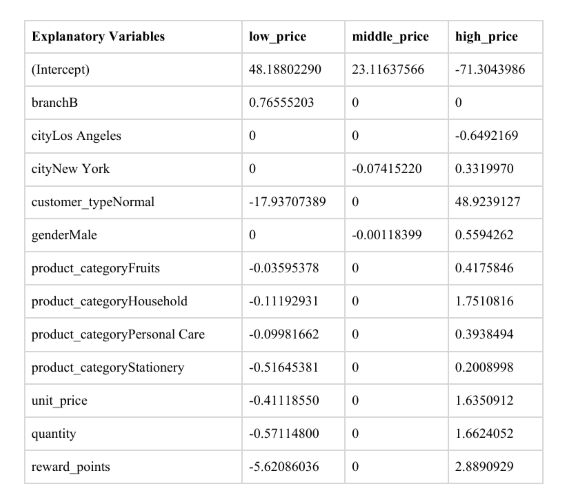
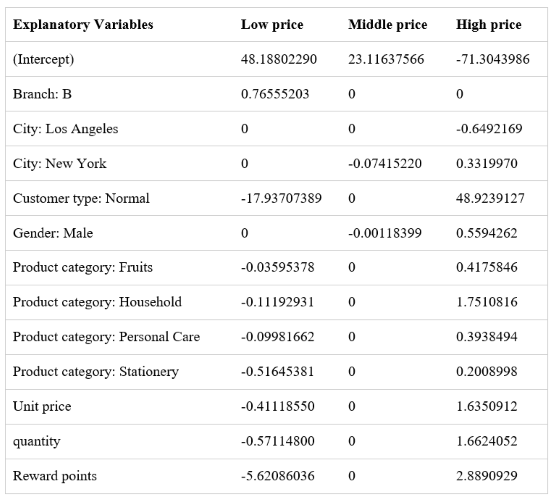
words

diff --git a/index.html b/index.html
@@ -1496,21 +1496,30 @@ updatePipelineProgress();
               </div>
 
               <div class="text-left text-[var(--color-bg-dark)] text-[clamp(0.5rem,2vw,1.0rem)] font-medium mb-6 tracking-wide" >
-                     <p>This study aim to find out if the membership status is correlated with higher single transaction sales value based on a real-world Supermarket 
-                        Sales Dataset from Kaggle, the supermarket located in 3 regions: Chicago, Los Angeles and New York. Each supermarket has 2 branches: Branch A, Branch B.<br>
+                        <p>This study aims to investigate if the membership status is correlated with higher single transaction sales value, 
+                            utilizing transactional records from a multi-regional supermarket enterprise sourced via Kaggle. 
+                            The retail network spans three metropolitan markets: Chicago, Los Angeles and New York. Each supermarket comprises 2 branches: Branch A, Branch B.<br>
+
                         <br>
-                        This dataset has 1000 observations and 12 variables, they are: sale_id, branch, city, customer_type, gender, product_name, 
-                        product_category, unit_price, quantity, tax, total_price and reward_points.<br>
+                        This dataset has 1000 observations and 12 variables, capturing transaction identifiers, store attributes, customer profiles, 
+                        product specifications, unit pricing, order quantities, tax liabilities, and cumulative monetary values.<br>
                         <br>
-                        R studio is used to visualise and analysis the data, to categorize the spending level, total spending was divided into three 
-                        levels : low price: 1.21 ~ 38.38;  middle price: 38.38 ~ 176.07; high price:176.07 ~ 433.99(unit: dollar). Tableau is used to
-                        creat the dashboard.<br>
+                        Analytical Framework, Data wrangling, Statistical computing and Econometric modeling were executed in R, supplemented by Tableau for exploratory data visualization. 
+                        To categorize the spending level, total spending was divided into three levels : low price: 1.21 ~ 38.38;  middle price: 38.38 ~ 176.07; high price:176.07 ~ 433.99(unit: dollar).
+                        Quantile-based discretization was adopted.
+                        Each segment accounts for 25%, 50%, and 25% respectively. In this dataset, the mean (Mean: 118.58) is significantly higher than the median (Median: 89.70), 
+                        with a maximum value reaching 433.99. This indicates that this dataset is a Right-Skewed dataset, and a few extremely high-value purchases skew the mean upward. 
+                        Under this distribution, quantiles are adpopted to enhance estimation robustness. (e.g., 0-100, 100-200, 200-300).<br>
                         <br>
-                        Logit regression and lasso regression are used to explore the correlation between the membership status and high single 
+
+                        <div class="text-left text-[var(--color-bg-dark)] text-[clamp(1.0rem,2vw,2.0rem)] font-medium mb-6 tracking-wide" ><p>Methodology and Key Findings</p></div><br>
+                        Ordinal Logistic Regression and Lasso Regression were adopted to assess the correlation between the membership status and high single 
                         transaction sales value.<br>
                         <br>
-                        The result shows that membership status is not significantly correlated with single transaction value, however, on low price 
-                        band, membership customer tends to spend more money;on high price band, non membership customer tends to spend more money. <br>  
+
+                        The parametric estimates reveal no statistically significant association between membership status and transaction price bands (p > 0.05). However, 
+                        in the lower price band, members tend to exhibit higher spending, whereas in the higher price band, non-members are more likely to spend greater amounts. 
+                        Despite apparent minor differences in the descriptive statistics, the regression model confirms that this difference is not statistically significant. <br>  
                         </p>
               </div> 
           </div>
@@ -1538,6 +1547,11 @@ updatePipelineProgress();
               <img src="./imgs/Rplot.png" class="w-full w-[500px] h-auto mx-auto ">
               <img src="./imgs/lasso.png" class="w-full w-[574px] h-auto mx-auto">
          </div>
+               
+              <div class="ml-4 text-left text-[var(--color-bg-dark)] text-[clamp(1.2rem,2vw,4rem)] font-medium mb-2 tracking-wide" ><p>Discribtive Ordinal Logistic Regression Models</p></div>
+              <img src="./imgs/Re2.png" class="w-[500px] h-auto p-2 mx-auto mb-6">
+              
+
           </div>
           <div class="flex flex-col p-4 ">
               <div class="text-left text-[var(--color-bg-dark)] text-[clamp(1.2rem,2vw,4rem)] tracking-wide mb-6" >
@@ -1547,19 +1561,19 @@ updatePipelineProgress();
           <div class="text-left text-[var(--color-accent)] text-[clamp(0.5rem,2vw,1.0rem)] font-medium mb-6 tracking-wide ">
               <div class="text-left text-[var(--color-bg-dark)] text-[clamp(0.7rem,2vw,1.2rem)] font-medium tracking-wide "><p>●Demographic:<br></div>
                 
-                 In this dataset,52.8% customers are male,&nbsp;47.2% customers are female;&nbsp;51.6% customers are membership customers,&nbsp;48.4% 
-                 customers are non-membership customers,&nbsp;demographics are balanced.<br>
+                 In this dataset,Male customers represent 52.80% of the sample, while female customers account for 47.20%;&nbsp;
+                 51.60% hold active memberships and 48.40% are non-member patrons, reflecting an even distributional parity.<br>
                  <br>
               <div class="text-left text-[var(--color-bg-dark)] text-[clamp(0.7rem,2vw,1.2rem)] font-medium tracking-wide "><p>●Product:<br></div>
                  
-                 There are five products in product categories, from highest to lowest: personal care, fruits, beverages, household and 
-                 stationery. Total sales are 27050, 26197, 22935, 21616, 20737 (unit:dollars).<br>
-                 From the most purchased product category to least, they are fruits, personal care, beverages, stationery and household. Corresponding 
-                 purchased quantity: 2286, 2278, 1952, 1913, 1908.<br> 
+                 A total of five product categories were examined. When sorted from the highest to the lowest sales volume, the categories are personal care, 
+                 fruits, beverages, household goods, and stationery, with respective total sales values of $27,050, $26,197, $22,935, $21,616 and $20,737.<br>
+                 Ranked in descending order of purchase volume, the product categories are fruits, personal care, beverages, stationery and household goods, 
+                 with corresponding purchased quantities of 2286, 2278, 1952, 1913 and 1908, respectively.<br> 
                  <br>
-                 For the unit price: min: 1.02; 1st quantil: 5.867; median:10.615; 3rd quantil: 15.883; max: 20.980.<br>
+                 For the unit price: min: 1.02; 1st quantil((Q1)): 5.87; median:10.62; 3rd quantil(Q3): 15.88; max: 20.98.<br>
                  <br>
-                 For the quantity: min: 1; 1st quantil: 5; median:10; 3rd quantil: 16; max: 20.<br>
+                 For the quantity: min: 1; 1st quantil(Q1): 5; median:10; 3rd quantil(Q3): 16; max: 20.<br>
                  <br>
               <div class="text-left text-[var(--color-bg-dark)] text-[clamp(0.7rem,2vw,1.2rem)] font-medium tracking-wide "><p>●Regional Sales:<br></div>
                  
@@ -1605,6 +1619,26 @@ updatePipelineProgress();
                  household category is 175% higher, buying personal care is 39.4% higher, buying stationery products is 20% higher. unit price, quantity, reward points increase 
                  when the price increase. branch has no correlation with the high price band purchase.<br>
                  <br>
+          </div>
+          <div class="text-left text-[var(--color-bg-dark)] text-[clamp(0.5rem,2vw,1.0rem)] font-medium mb-6 tracking-wide ">
+              <div class="text-left text-[var(--color-bg-dark)] text-[clamp(0.7rem,2vw,1.2rem)] font-medium tracking-wide "><p>●Ordinary Logit Regression<br></div>
+                
+                 Model 1: P value of key explanatory variable is 0.21,
+                 greater than 0.005, indicates that customer type has no correlation with total price level.<br>
+                 <br>
+                 Model 2: By adding control variables: City, Gender, product category, results showing that city: LA and product stationery are significantly correlated with outcome 
+                 variable, with p value 0.002 and 0.014. With the coefficient -0.46 and -0.47, one unit product increasing, total sales of LA reduce 46% compared with Chicago; total 
+                 sales of stationery products reduce 47% compared with beverages.<br>
+                 <br>
+                 Model 3: By adding the interactions, results indicates that city LA and product stationery are still significantly correlated with outcome variable. With the coefficient
+                 -0.47 and -0.67, one unit product increasing, total sales of LA reduce 47% compared with Chicago; total sales of stationery products reduce 67% compared with beverages. 
+                 <br>
+                 However, the p value of  interaction terms are greater than 0.005, shows that membership status doesn't affect the correlation between the product category and the total 
+                 price level. Gender has no correlation with the total price level.
+                 <br>
+                 Based on the fact that unit price and quantity are the key explanatory variable of the total price level, the models above didn't include them due to the statistics logic. 
+                 <br>
+                 The McFadden's Pseudo R of model 1,2,3 indicates that they can explain 0.08%, 1.2%, 1.3% of the dataset, the AIC of model 2 are the smallest indicates that model 2 is the best model among 3 models.
           </div>
      </div>
 </div>
